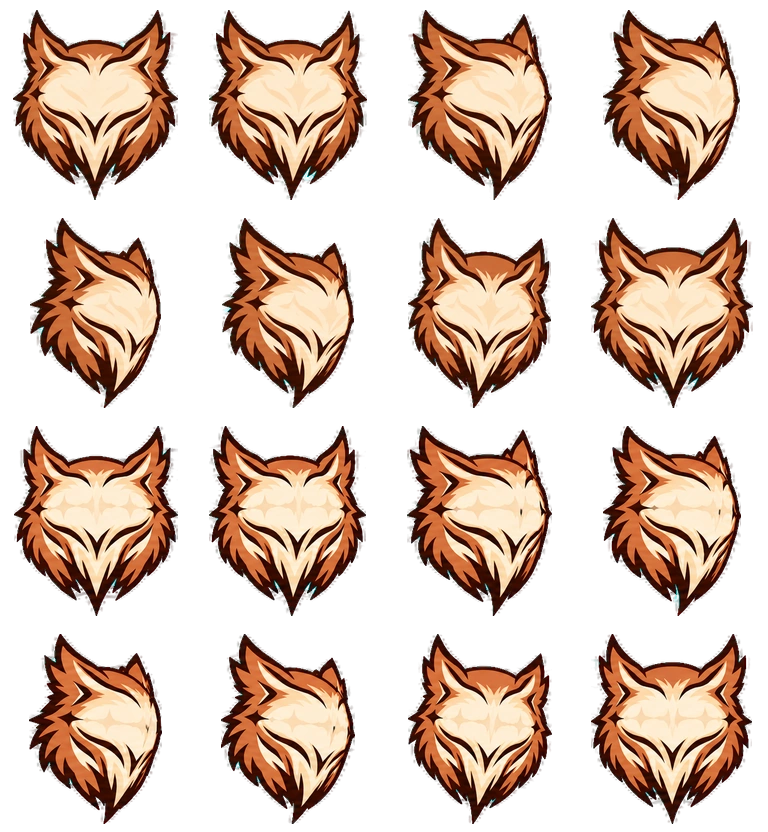
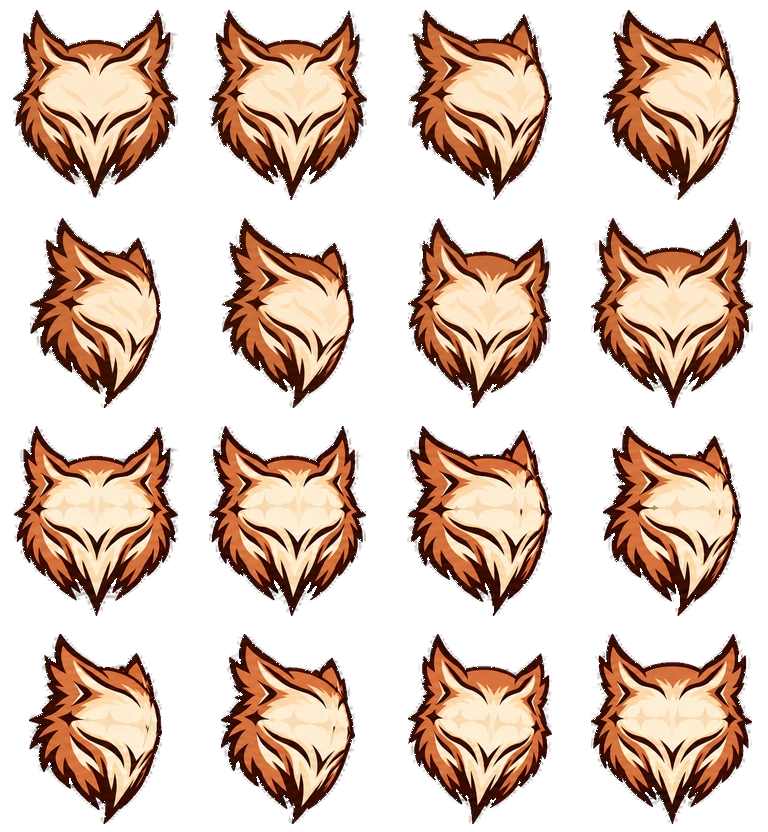
Improve Horizon mascot gaze and clean artwork

Changed region(s): [[0.875, 0.4375, 0.9062, 0.4688], [0.375, 0.1875, 0.4062, 0.2188]]

diff --git a/app.js b/app.js
@@ -1,7 +1,9 @@
 (() => {
   const frame = document.getElementById("avatarSprite");
   const stage = document.getElementById("avatarStage");
+  const mainPanel = document.querySelector(".main-panel");
   const wavePath = document.getElementById("wavePath");
+  let activeMessageAvatar = null;
   const status = document.getElementById("companionStatus");
   const conversation = document.getElementById("conversation");
   const welcome = document.getElementById("welcomeBlock");
@@ -13,8 +15,11 @@
   const sidebar = document.querySelector(".sidebar");
   const toast = document.getElementById("toast");
 
-  const frameSize = { width: 174, height: 188 };
   let direction = 0;
+  let targetLook = { x: 0, y: 0 };
+  let currentLook = { x: 0, y: 0 };
+  let gazeFrame = 0;
+  let lastGazeTime = 0;
   let audioLevel = 0;
   let externalAudioLevel = null;
   let speaking = false;
@@ -22,34 +27,71 @@
   let toastTimer;
   let demoTimer;
 
+  function queueGazeFrame() {
+    if (!gazeFrame) gazeFrame = requestAnimationFrame(animateGaze);
+  }
+
+  function applyGazeTransform(x, y) {
+    // Positive Y means the cursor is above Horizon. A negative X rotation
+    // tilts the face back, which reads as looking upward in CSS 3D space.
+    const pitch = y * -42;
+    const yaw = x * -24;
+    const transform = `perspective(500px) rotateX(${pitch.toFixed(2)}deg) rotateY(${yaw.toFixed(2)}deg)`;
+    stage.style.transform = transform;
+    if (activeMessageAvatar) activeMessageAvatar.style.transform = transform;
+  }
+
+  function animateGaze(now) {
+    const delta = lastGazeTime ? Math.min(40, now - lastGazeTime) : 16;
+    lastGazeTime = now;
+    const smoothing = 1 - Math.exp(-delta / 105);
+    currentLook.x += (targetLook.x - currentLook.x) * smoothing;
+    currentLook.y += (targetLook.y - currentLook.y) * smoothing;
+    applyGazeTransform(currentLook.x, currentLook.y);
+
+    if (Math.abs(targetLook.x - currentLook.x) + Math.abs(targetLook.y - currentLook.y) > 0.003) {
+      gazeFrame = requestAnimationFrame(animateGaze);
+    } else {
+      currentLook = { ...targetLook };
+      applyGazeTransform(currentLook.x, currentLook.y);
+      gazeFrame = 0;
+      lastGazeTime = 0;
+    }
+  }
+
+  function setLook(x, y, nextDirection) {
+    targetLook = {
+      x: Math.max(-1, Math.min(1, x)),
+      y: Math.max(-1, Math.min(1, y)),
+    };
+    direction = nextDirection;
+    const horizontal = Math.abs(targetLook.x) < 0.12 ? "" : targetLook.x > 0 ? " à direita" : " à esquerda";
+    const vertical = Math.abs(targetLook.y) < 0.12 ? "" : targetLook.y > 0 ? " para cima" : " para baixo";
+    const look = vertical || horizontal ? `${vertical}${horizontal}` : " para a frente";
+    frame.setAttribute("aria-label", `Coruja Horizon olhando${look}`);
+    queueGazeFrame();
+  }
+
   function showDirection(index) {
     direction = ((index % 16) + 16) % 16;
-    const col = direction % 4;
-    const row = Math.floor(direction / 4);
     const angle = direction * Math.PI / 8;
-    const pitch = Math.cos(angle) * 9;
-    const yaw = Math.sin(angle) * -7;
-    const tilt = `perspective(700px) rotateX(${pitch.toFixed(1)}deg) rotateY(${yaw.toFixed(1)}deg)`;
-    frame.style.backgroundPosition = `${-col * frameSize.width}px ${-row * frameSize.height}px`;
-    stage.style.transform = tilt;
-    document.querySelectorAll(".message-avatar").forEach((avatar) => {
-      avatar.style.backgroundPosition = `${-col * 48}px ${-row * 52}px`;
-      avatar.style.transform = tilt;
-    });
-    frame.setAttribute("aria-label", `Coruja Horizon olhando na direção ${direction + 1} de 16`);
+    setLook(Math.sin(angle), Math.cos(angle), direction);
   }
 
   function pointerDirection(event) {
-    const rect = stage.getBoundingClientRect();
+    const pointerIsInMascot = event.target instanceof Element && event.target.closest(".companion-card");
+    const trackingArea = pointerIsInMascot ? stage : mainPanel;
+    const rect = trackingArea.getBoundingClientRect();
     const dx = event.clientX - (rect.left + rect.width / 2);
     const dy = event.clientY - (rect.top + rect.height / 2);
-    if (Math.hypot(dx, dy) < 28) return showDirection(0);
-    const degrees = (Math.atan2(dx, -dy) * 180 / Math.PI + 360) % 360;
-    showDirection(Math.round(degrees / 22.5) % 16);
+    const x = Math.max(-1, Math.min(1, dx / (rect.width * (pointerIsInMascot ? 1.15 : 0.52))));
+    const y = Math.max(-1, Math.min(1, -dy / (rect.height * (pointerIsInMascot ? 1.15 : 0.52))));
+    const angle = (Math.atan2(x, y) + Math.PI * 2) % (Math.PI * 2);
+    setLook(x, y, Math.round(angle / (Math.PI / 8)) % 16);
   }
 
   document.addEventListener("pointermove", pointerDirection, { passive: true });
-  document.addEventListener("pointerleave", () => showDirection(0));
+  document.addEventListener("pointerleave", () => setLook(0, 0, 0));
 
   function drawWave(level, time) {
     let pathData;
@@ -77,7 +119,7 @@
       const last = points[points.length - 1];
       pathData += ` L ${last.x.toFixed(1)} ${last.y.toFixed(1)}`;
     }
-    [wavePath, ...document.querySelectorAll(".message-wave path")].forEach((path) => {
+    [wavePath, activeMessageAvatar?.querySelector(".message-wave path")].filter(Boolean).forEach((path) => {
       path.setAttribute("d", pathData);
     });
   }
@@ -138,8 +180,9 @@
       avatar.className = "message-avatar";
       avatar.setAttribute("role", "img");
       avatar.setAttribute("aria-label", "Mascote Horizon");
-      avatar.style.backgroundPosition = `${-(direction % 4) * 48}px ${-Math.floor(direction / 4) * 52}px`;
       avatar.innerHTML = '<svg class="message-wave" viewBox="0 0 120 24" aria-hidden="true"><path d="M 4 12 H 116" /></svg>';
+      activeMessageAvatar = avatar;
+      avatar.style.transform = stage.style.transform;
       article.append(avatar);
     }
     const body = document.createElement("div");
@@ -232,6 +275,7 @@
   document.getElementById("newChat").addEventListener("click", () => {
     clearTimeout(demoTimer);
     messageList.replaceChildren();
+    activeMessageAvatar = null;
     welcome.hidden = false;
     typing.classList.remove("visible");
     input.value = "";
@@ -271,5 +315,5 @@
     toastTimer = window.setTimeout(() => toast.classList.remove("visible"), 2300);
   }
 
-  showDirection(0);
+  applyGazeTransform(0, 0);
 })();

diff --git a/styles.css b/styles.css
@@ -37,8 +37,8 @@ button { color: inherit; }
 .companion-card::before { content: ""; position: absolute; width: 218px; height: 218px; border: 1px solid rgba(223,184,138,.09); border-radius: 50%; top: 17px; left: 50%; transform: translateX(-50%); }
 .companion-card::after { content: ""; position: absolute; width: 180px; height: 180px; border: 1px solid rgba(223,184,138,.055); border-radius: 50%; top: 36px; left: 50%; transform: translateX(-50%); }
 .companion-glow { position: absolute; inset: 50px 35px 63px; border-radius: 50%; background: radial-gradient(ellipse, rgba(204,141,79,.22), transparent 68%); filter: blur(8px); }
-.avatar-stage { position: relative; width: var(--frame-w); height: var(--frame-h); z-index: 1; margin: 3px auto 0; transform: perspective(700px); transform-style: preserve-3d; transition: filter .25s ease, transform .22s ease-out; filter: drop-shadow(0 9px 11px rgba(0,0,0,.16)); }
-.avatar-sprite { position: absolute; inset: 0; width: var(--frame-w); height: var(--frame-h); background-image: url("./public/assets/horizon-look-directions.webp"); background-repeat: no-repeat; background-size: calc(var(--frame-w) * 4) calc(var(--frame-h) * 4); background-position: 0 0; transition: background-position .12s steps(1,end); }
+.avatar-stage { position: relative; width: var(--frame-w); height: var(--frame-h); z-index: 1; margin: 3px auto 0; transform: perspective(500px); transform-origin: 50% 54%; transform-style: preserve-3d; transition: filter .25s ease; filter: drop-shadow(0 9px 11px rgba(0,0,0,.16)); }
+.avatar-sprite { position: absolute; inset: 0; width: var(--frame-w); height: var(--frame-h); background-image: url("./public/assets/horizon-owl.webp"); background-repeat: no-repeat; background-size: 100% 100%; background-position: center; }
 .voice-wave { position: absolute; z-index: 2; width: 110px; height: 22px; left: 50%; top: 50%; overflow: visible; transform: translate(-50%,-50%); pointer-events: none; }
 .voice-wave path { fill: none; stroke: #160e0a; stroke-width: 1.7; stroke-linecap: round; stroke-linejoin: round; }
 .companion-caption { z-index: 2; position: relative; margin-top: 2px; display: flex; align-items: center; gap: 7px; color: #ead7c4; font-size: 11px; letter-spacing: .15px; }
@@ -108,7 +108,7 @@ h1 span { color: #bd8250; }
 .message-list:empty { display: none; }
 .message { display: flex; gap: 11px; align-items: flex-start; animation: message-in .24s ease both; }
 .message.user { justify-content: flex-end; }
-.message-avatar { position: relative; flex: 0 0 48px; width: 48px; height: 52px; margin-top: 1px; background-image: url("./public/assets/horizon-look-directions.webp"); background-repeat: no-repeat; background-size: 192px 208px; transform-style: preserve-3d; transition: transform .22s ease-out; }
+.message-avatar { position: relative; flex: 0 0 48px; width: 48px; height: 52px; margin-top: 1px; background-image: url("./public/assets/horizon-owl.webp"); background-repeat: no-repeat; background-size: 100% 100%; background-position: center; transform: perspective(500px); transform-origin: 50% 54%; transform-style: preserve-3d; }
 .message-wave { position: absolute; left: 50%; top: 50%; width: 44px; height: 14px; overflow: visible; transform: translate(-50%,-50%); pointer-events: none; }
 .message-wave path { fill: none; stroke: #160e0a; stroke-width: 3.2; stroke-linecap: round; stroke-linejoin: round; }
 .message-body { max-width: min(84%,590px); color: #4c3e33; font-size: 13px; line-height: 1.65; }

diff --git a/README.md b/README.md
@@ -15,7 +15,8 @@ Abra a porta `4173` na lista de portas do Codespace.
 ## O que já funciona
 
 - Layout responsivo com navegação à esquerda e conversa no painel principal.
-- Horizon acompanha o cursor com 16 direções de olhar.
+- Horizon acompanha o cursor com inclinação contínua e suavizada, inclusive para cima e para baixo.
+- A animação atual inclina a imagem frontal; um rig próprio do Rive depende de arte separada em partes e do arquivo `.riv` do projeto.
 - A linha central fica reta em repouso e se anima durante uma resposta demonstrativa.
 - `window.HorizonMascot.setSpeaking(true)` e `setAudioLevel(0..1)` permitem ligar o movimento ao áudio real quando o serviço de voz estiver configurado.
 - Caixa de mensagem, sugestões e criação de conversa funcionam como prévia local.
@@ -31,4 +32,4 @@ O endpoint de voz pode enviar níveis de áudio para `window.HorizonMascot.setAu
 - `index.html` — interface sem framework.
 - `styles.css` — aparência desktop e mobile.
 - `app.js` — conversa demonstrativa, direção do mascote e onda reativa.
-- `public/assets/horizon-look-directions.webp` — 16 poses do Horizon, sem a onda embutida.
+- `public/assets/horizon-owl.webp` — pose frontal limpa do Horizon, com fundo transparente.
